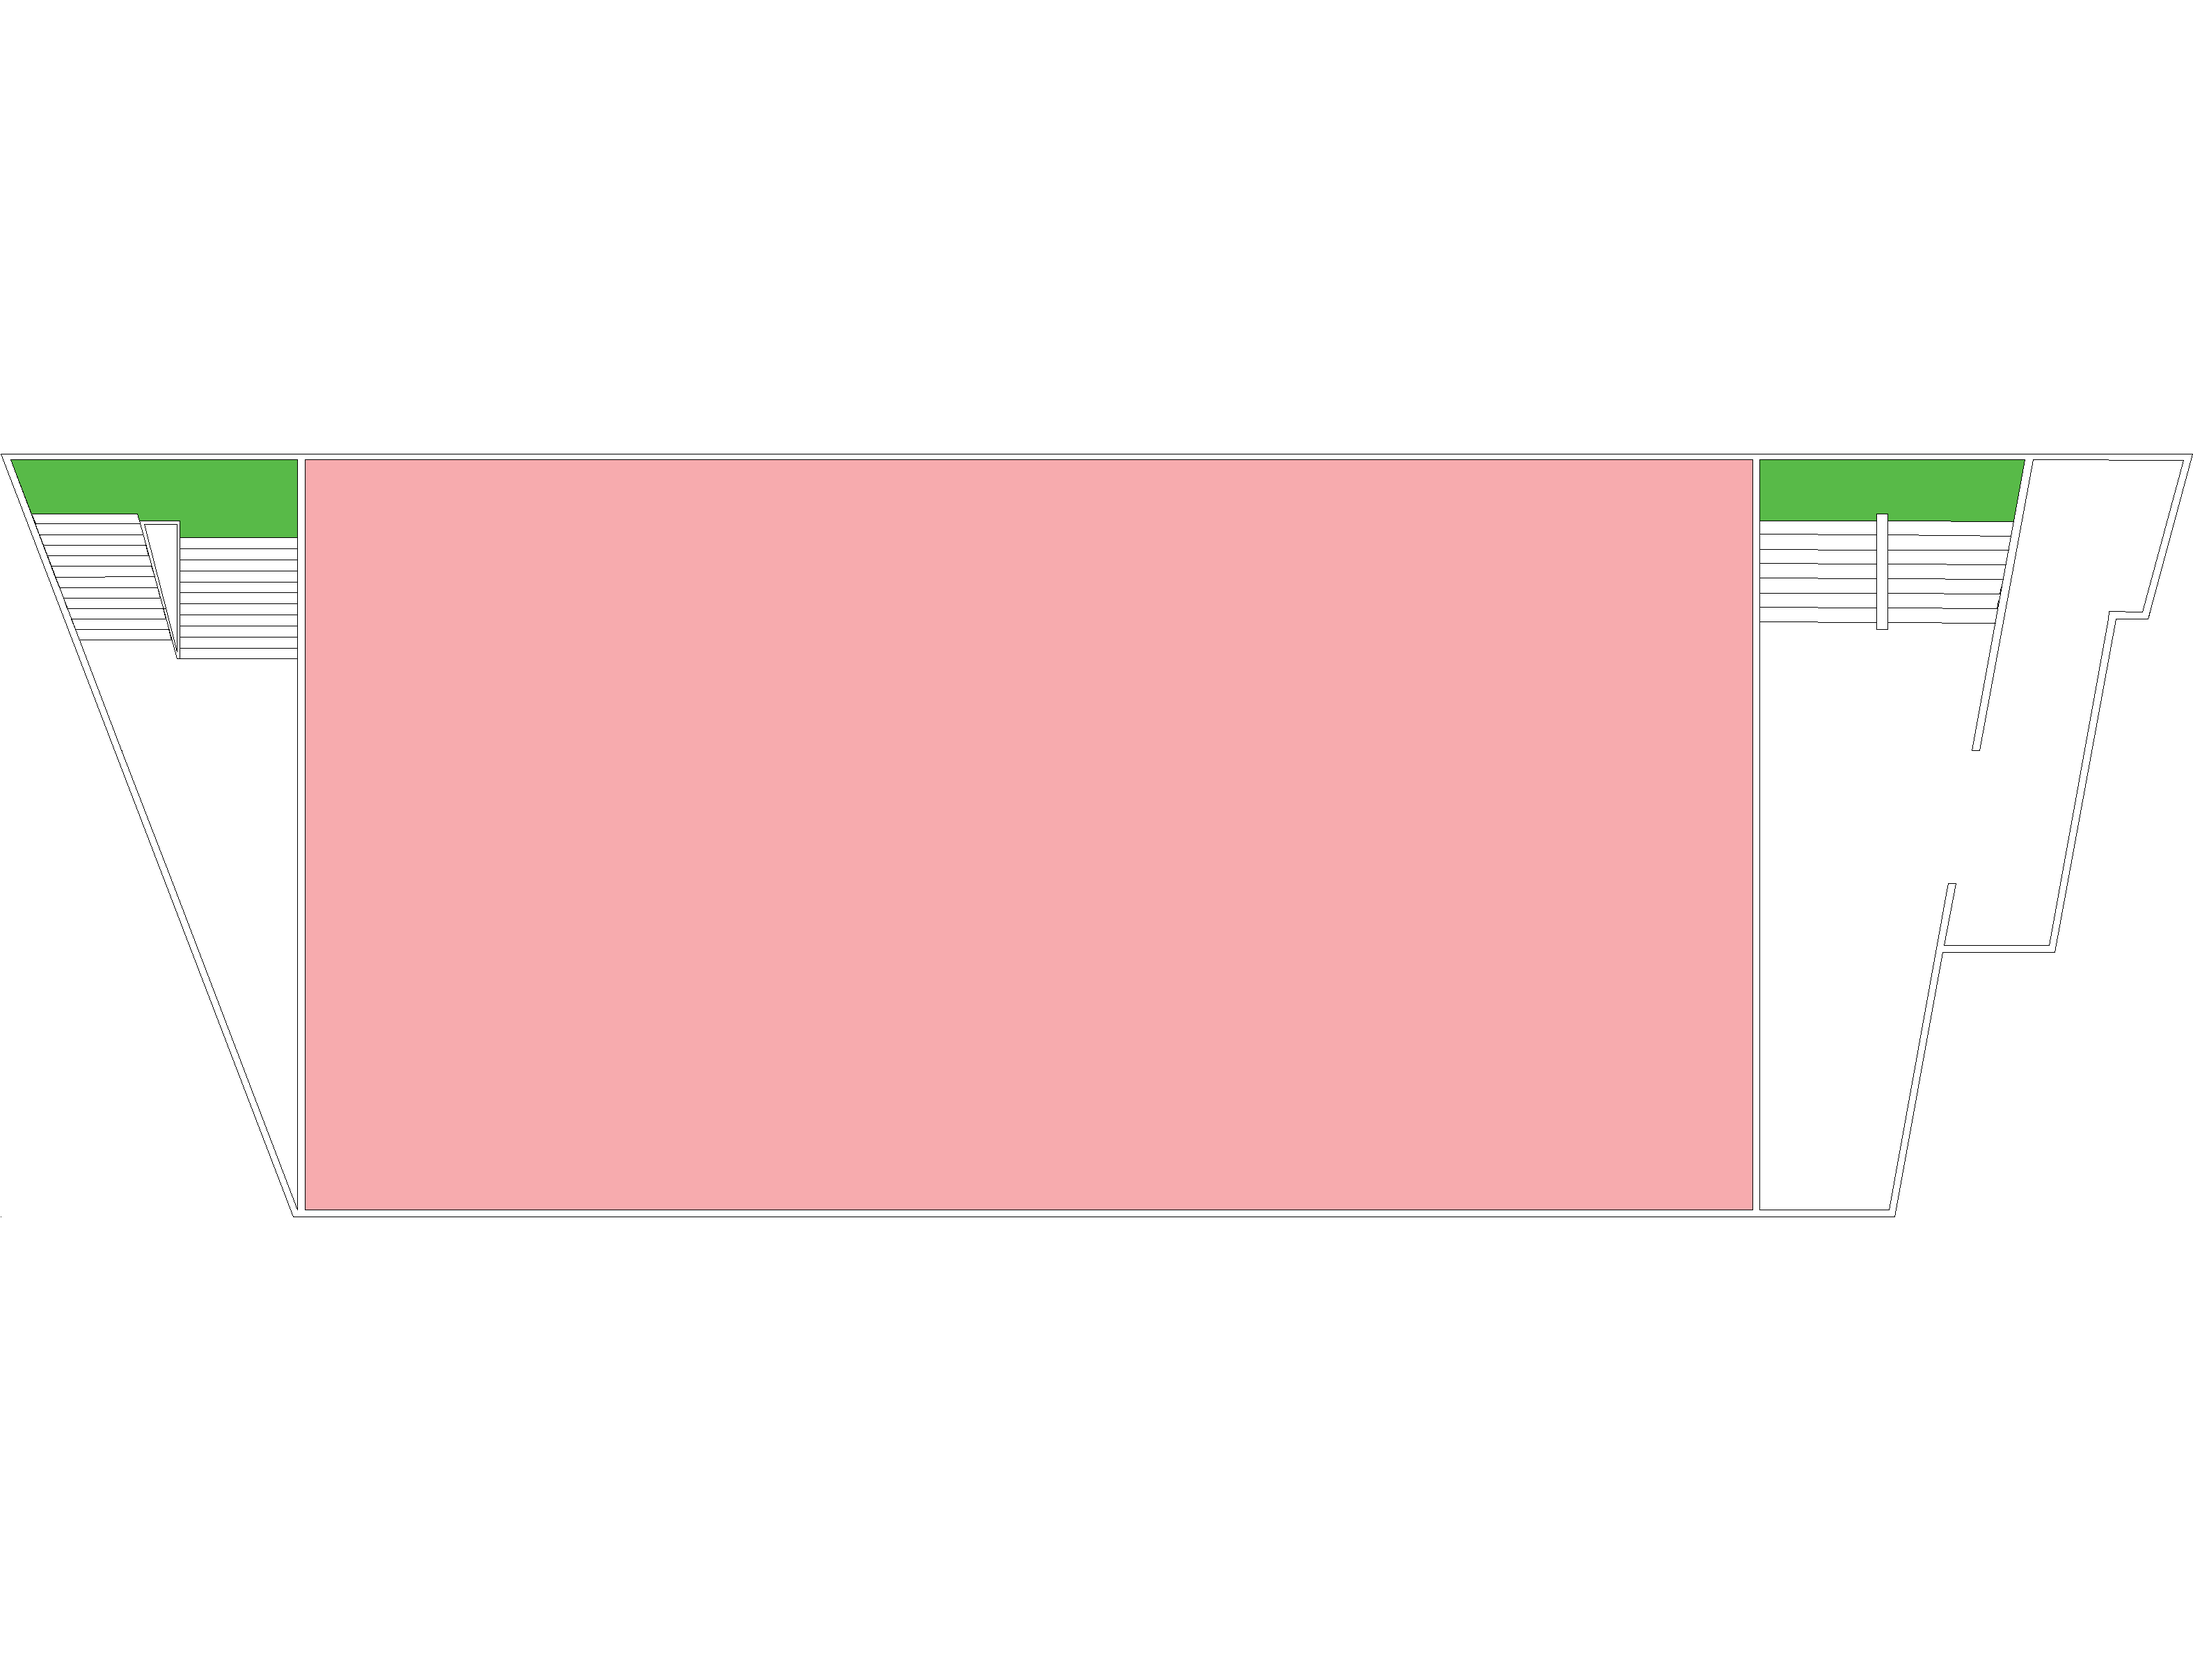
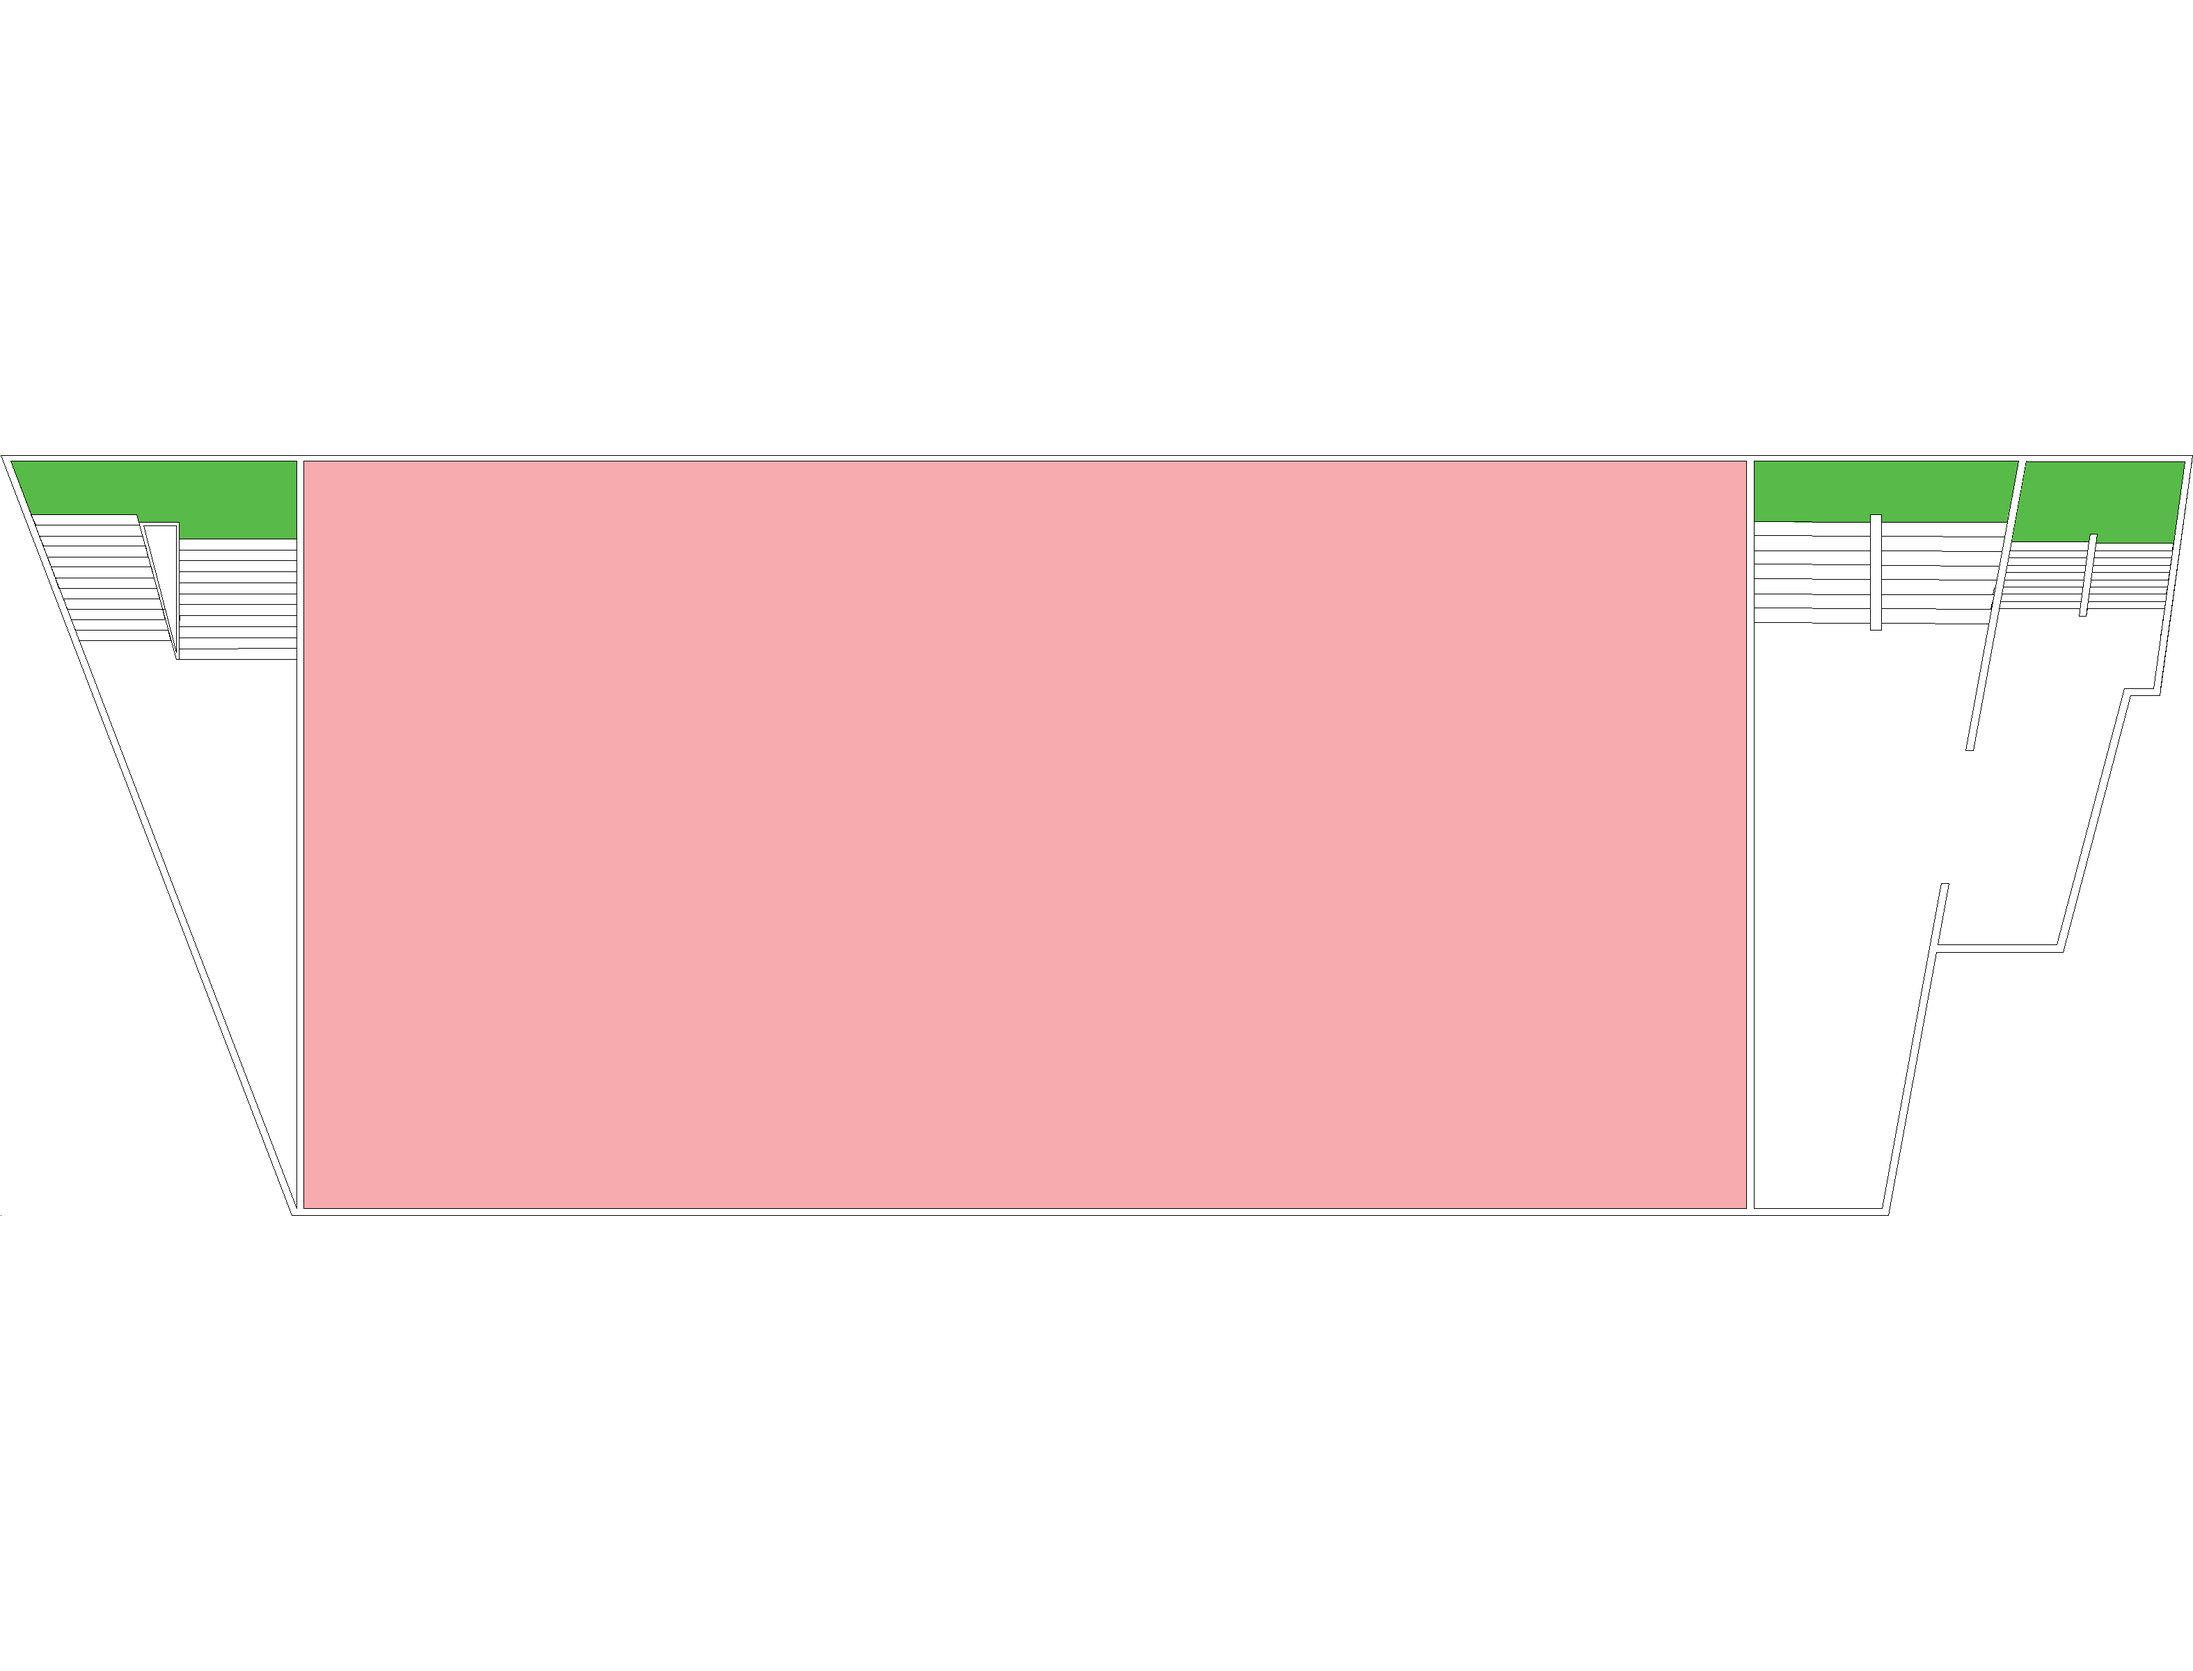
main Ex

Changed region(s): [[0.7775, 0.2499, 1.0, 0.7185], [0.0311, 0.3124, 0.1244, 0.4061]]

diff --git a/src/buildingNodes.js b/src/buildingNodes.js
@@ -497,6 +497,10 @@ function buildingNodes(buildingName) {
     }
     else if (buildingName == "main4thFloor") {
         nodes = [
+            { id: 8500, lat: 6.15, lon: 9.7,},
+            { id: 8501, lat: 6.93, lon: 9.75,},
+            { id: 8502, lat: 6.93, lon: 9.4,},
+            { id: 8503, lat: 6.75, lon: 9.4,label: 'leaveButton', destination: 'main5thFloor', desti: 8512,direction: 'up'},
             { id: 700, lat: 7.1, lon: 7.45,label: 'leaveButton',destination: 'BRS4thFloor',desti: 207},
             { id: 701, lat: 5.83, lon: 7.45,},
             { id: 702, lat: 5.83, lon: 7.6,}, {lat: 6.5, lon: 8.25, title: 'classRoom',building:'Main', floor:'4th Floor',node: 702,label: 'classroomLogo' },
@@ -507,9 +511,9 @@ function buildingNodes(buildingName) {
             { id: 707, lat: 5.1, lon: 6.98,},
             { id: 708, lat: 6.9, lon: 6.98,},
             { id: 709, lat: 6.9, lon: 6.5,},
-            { id: 710, lat: 6.65, lon: 6.5,label: 'leaveButton', destination: 'main5thFloor', desti: 1010,direction: 'up'},
+            { id: 710, lat: 6.75, lon: 6.5,label: 'leaveButton', destination: 'main5thFloor', desti: 1010,direction: 'up'},
             { id: 711, lat: 5.1, lon: 6.5,},
-            { id: 712, lat: 5.98, lon: 6.5,label: 'leaveButton', destination: 'main3rdFloor',desti: 750,direction: 'down'},
+            { id: 712, lat: 6.05, lon: 6.5,label: 'leaveButton', destination: 'main3rdFloor',desti: 750,direction: 'down'},
             { id: 713, lat: 5.1, lon: 6.2,},
             { id: 714, lat: 4.74, lon: 6.2,}, {lat: 4, lon: 6.2, title: 'classRoom',building:'Main', floor:'4th Floor',node: 714,label: 'classroomLogo' },
             { id: 715, lat: 5.1, lon: 5.7,},
@@ -526,7 +530,7 @@ function buildingNodes(buildingName) {
             { id: 728, lat: 6.33, lon: 2.15,},{lat: 6.8, lon: 1.8, title: 'classRoom',building:'Main', floor:'4th Floor',node: 728,label: 'classroomLogo' },
             { id: 729, lat: 6.15, lon: 2.05,}, {lat: 6, lon: 1.75, title: 'classRoom',building:'Main', floor:'4th Floor',node: 729,label: 'classroomLogo' },
             { id: 730, lat: 5.1, lon: 1.3,},
-            { id: 731, lat: 6.02, lon: 0.82,label: 'leaveButton', destination: 'main3rdFloor', desti:779,direction: 'down' },
+            { id: 731, lat: 6.1, lon: 0.85,label: 'leaveButton', destination: 'main3rdFloor', desti:779,direction: 'down' },
             { id: 732, lat: 6.9, lon: 1.3,},
             { id: 733, lat: 6.9, lon: 0.64,},
             { id: 734, lat: 6.7, lon: 0.64,},
@@ -555,6 +559,13 @@ function buildingNodes(buildingName) {
             { id: 1018, lat: 3.4, lon: 8.69,}, {lat: 3.7, lon: 8.4, title: 'classRoom',building:'Main', floor:'5th Floor',node: 1018,label: 'classroomLogo' },
             { id: 1019, lat: 4.15, lon: 9,label: 'leaveButton', destination: 'main6thFloor', desti: 1080,direction: 'up'},
             { id: 1020, lat: 2.7, lon: 9.3,},
+            { id: 8510, lat: 3.4, lon: 9.5,},
+            { id: 8511, lat: 3.4, lon: 9.35,},
+            { id: 8512, lat: 3.65, lon: 9.35,label: 'leaveButton', destination: 'main4thFloor', desti: 8503,direction: 'down'},
+            { id: 8513, lat: 3.4, lon: 9.65,},
+            { id: 8514, lat: 4.2, lon: 9.7,},
+            { id: 8515, lat: 4.2, lon: 9.37,},
+            { id: 8516, lat: 4, lon: 9.37,label: 'leaveButton',destination: 'main6thFloor',desti: 8521,direction: 'up'},
             { id: 1021, lat: 0.65, lon: 9.,},
             { id: 1022, lat: 0.25, lon: 8.7,},
             { id: 1023, lat: 0.25, lon: 7.25,},
@@ -570,7 +581,10 @@ function buildingNodes(buildingName) {
             { id: 1081, lat: 7.1, lon: 8.9, },
             { id: 1082, lat: 7.1, lon: 8.3, },
             { id: 1083, lat: 5.2, lon: 8.3, },
-            { id: 1084, lat: 5.2, lon: 8.03, }, {lat: 5.2, lon: 4.3, title: 'classRoom',building:'Main', floor:'6th Floor',node: 1084,label: 'classroomLogo' },
+   
+            { id: 8520, lat: 5.2, lon: 9.1, },
+            { id: 8521, lat: 6.34, lon: 9.35,label: 'leaveButton', destination:'main5thFloor', desti: 8516,direction: 'down' },
+            { id: 1084,  lat: 5.2, lon: 8, }, {lat: 5.2, lon: 4.3, title: 'classRoom',building:'Main', floor:'6th Floor',node: 1084,label: 'classroomLogo' },
             
    
         ];

diff --git a/src/dijktrasAlgo.js b/src/dijktrasAlgo.js
@@ -899,6 +899,18 @@ g.addEdge(1022, 1021, 1);
 g.addEdge(1022, 1023, 1);
 g.addEdge(1024, 1023, 1);
 
+g.addEdge(1020, 8510, .1);
+g.addEdge(8511, 8510, .1);
+g.addEdge(8511, 8512, .1);
+g.addEdge(8513, 8510, .1);
+g.addEdge(8513, 8514, .1);
+g.addEdge(8515, 8514, .1);
+g.addEdge(8515, 8516, .1);
+g.addEdge(8521, 8516, .1);
+
+g.setNodeCategory(8512,'emergencyExit');
+g.setNodeCategory(8516,'emergencyExit');
+
 //main 6th Floor
 g.addEdge(1080, 1019, 1);
 g.addEdge(1080, 1081, 1);
@@ -906,8 +918,9 @@ g.addEdge(1082, 1081, 1);
 g.addEdge(1082, 1083, 1);
 g.addEdge(1084, 1083, 1);
 
-
-
+g.addEdge(8520, 1083, .1);
+g.addEdge(8521, 8520, .1);
+g.setNodeCategory(8521,'emergencyExit');
 
 //Main 4th Floor
 g.addEdge(700, 207, 1);
@@ -946,6 +959,16 @@ g.addEdge(736, 737, 10);
 g.addEdge(730, 732, 1);
 g.addEdge(733, 732, 1);
 g.addEdge(733, 734, 1);
+
+g.addEdge(706, 8504, .1);
+g.addEdge(8500, 8504, .1);
+g.addEdge(8500, 8501, .1);
+g.addEdge(8502, 8501, .1);
+g.addEdge(8502, 8503, .1);
+g.addEdge(8503, 8512, .1);
+g.setNodeCategory(8503,'emergencyExit');
+g.setNodeCategory(8500,'emergencyExit');
+
 
 //Main 3rd Floor
 g.addEdge(750, 712, 1);
